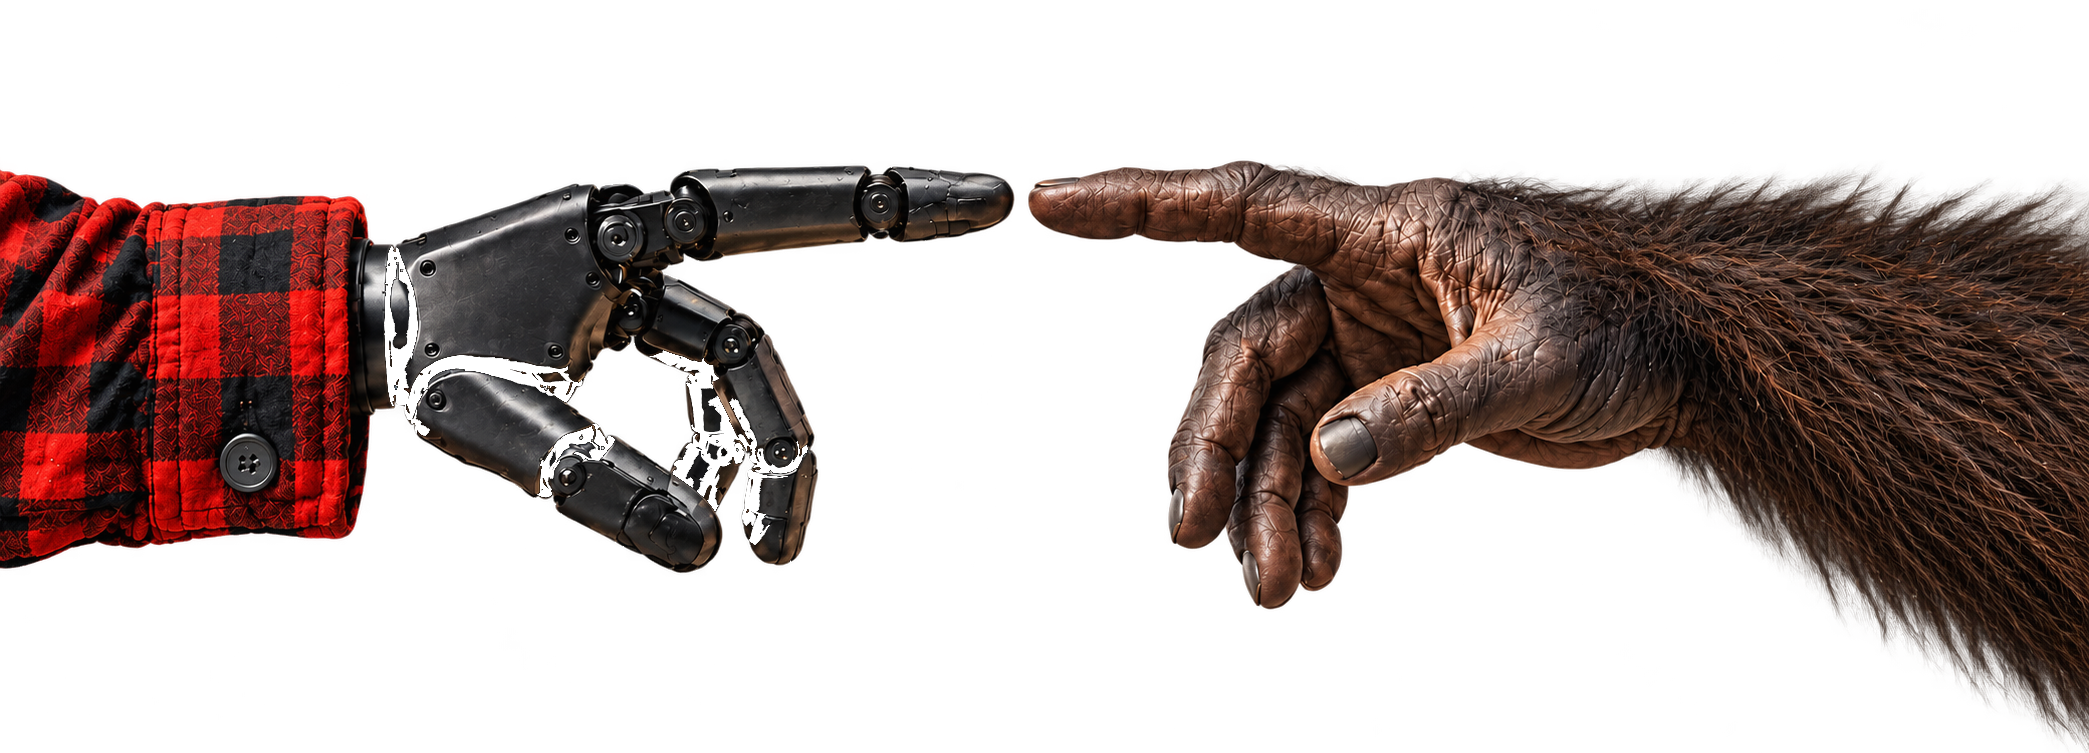
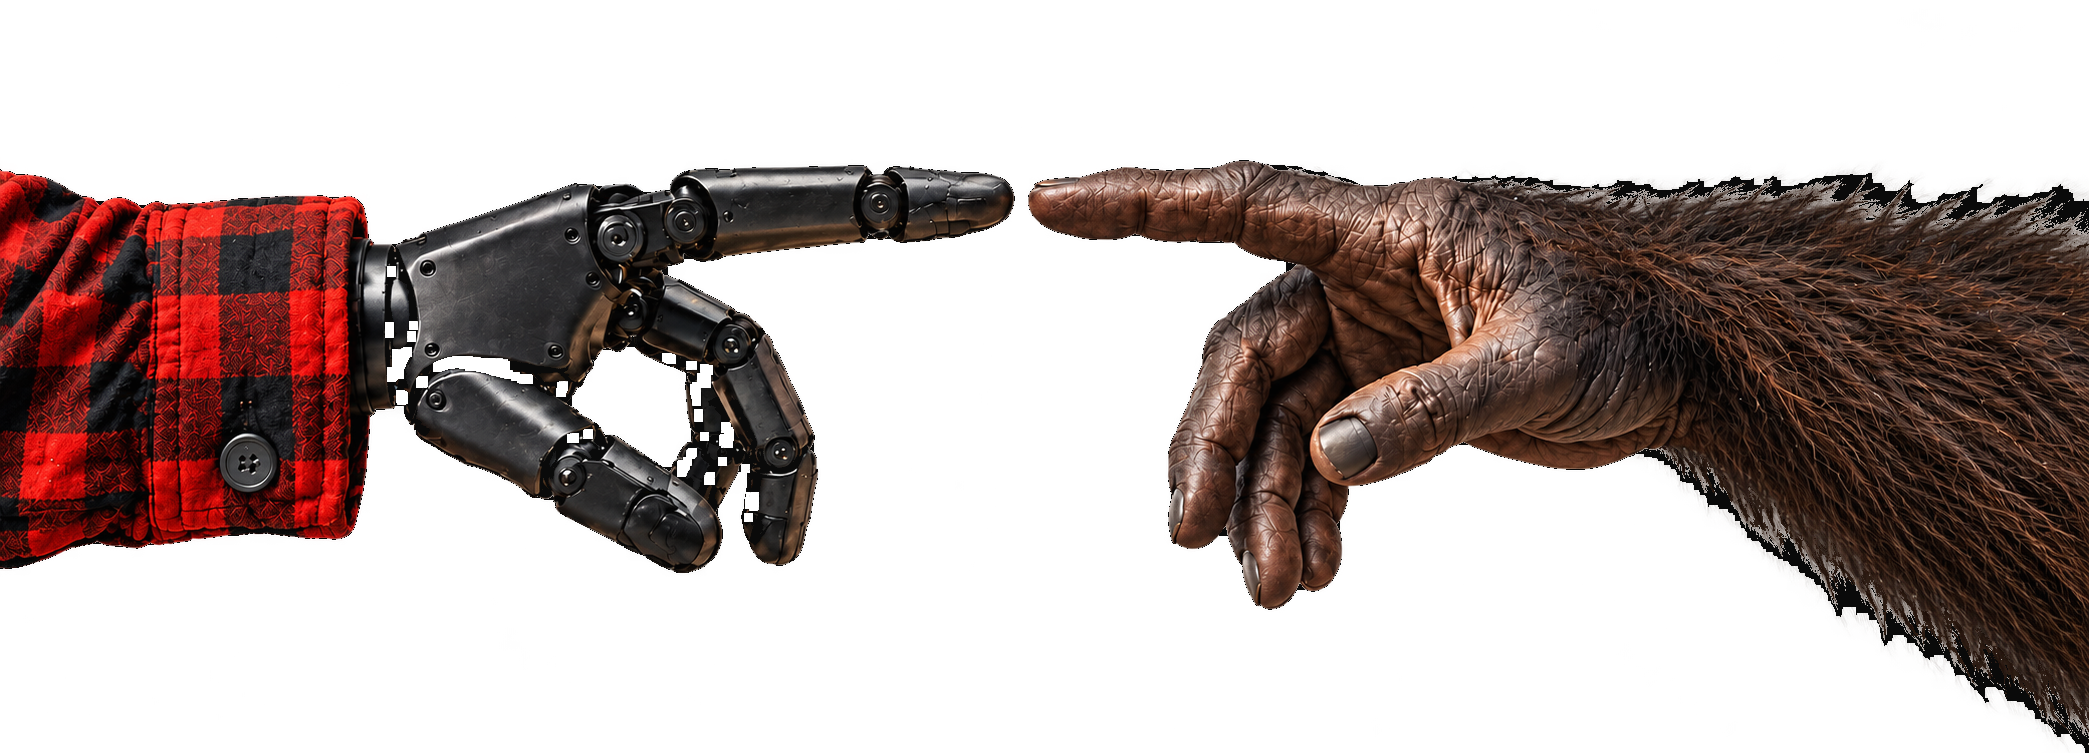
fixed the hero section image

diff --git a/src/images.ts b/src/images.ts
@@ -24,7 +24,7 @@ export const img = {
   blog2,
   blog3,
   logo: p('9JYQyVXx8KcGAaFl7ov5ZZGsXs.svg'),
-  heroHands: p('finalhero.png'),
+  heroHands: p('lasthero.png'),
   badge: p('hfLbzDwAMFhAQJjaQotR5S5lGc.png'),
   heroBg: p('CXf1VtliCLhgE72rnxykPb20LI8.png'),
   handshake: p('YUzSyGKGhbl5eDTwnRH51Jltc.png'),
